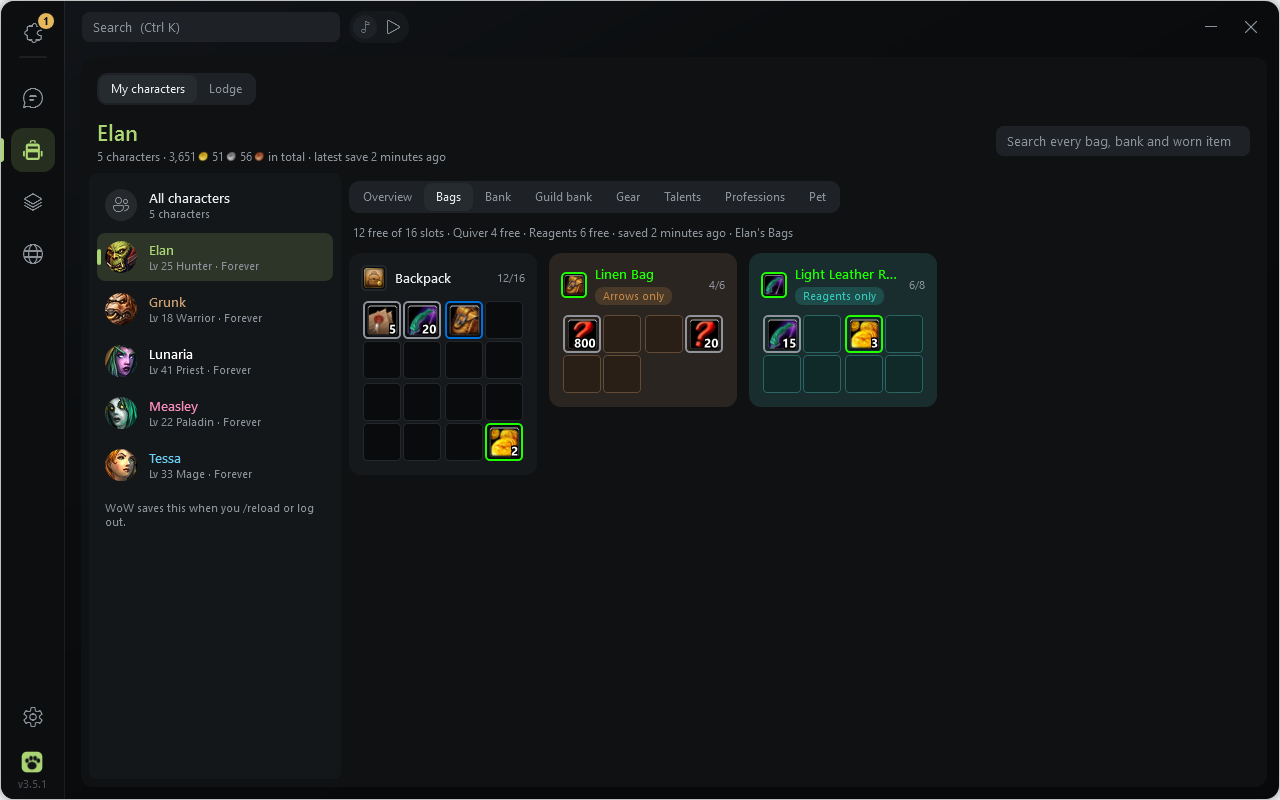
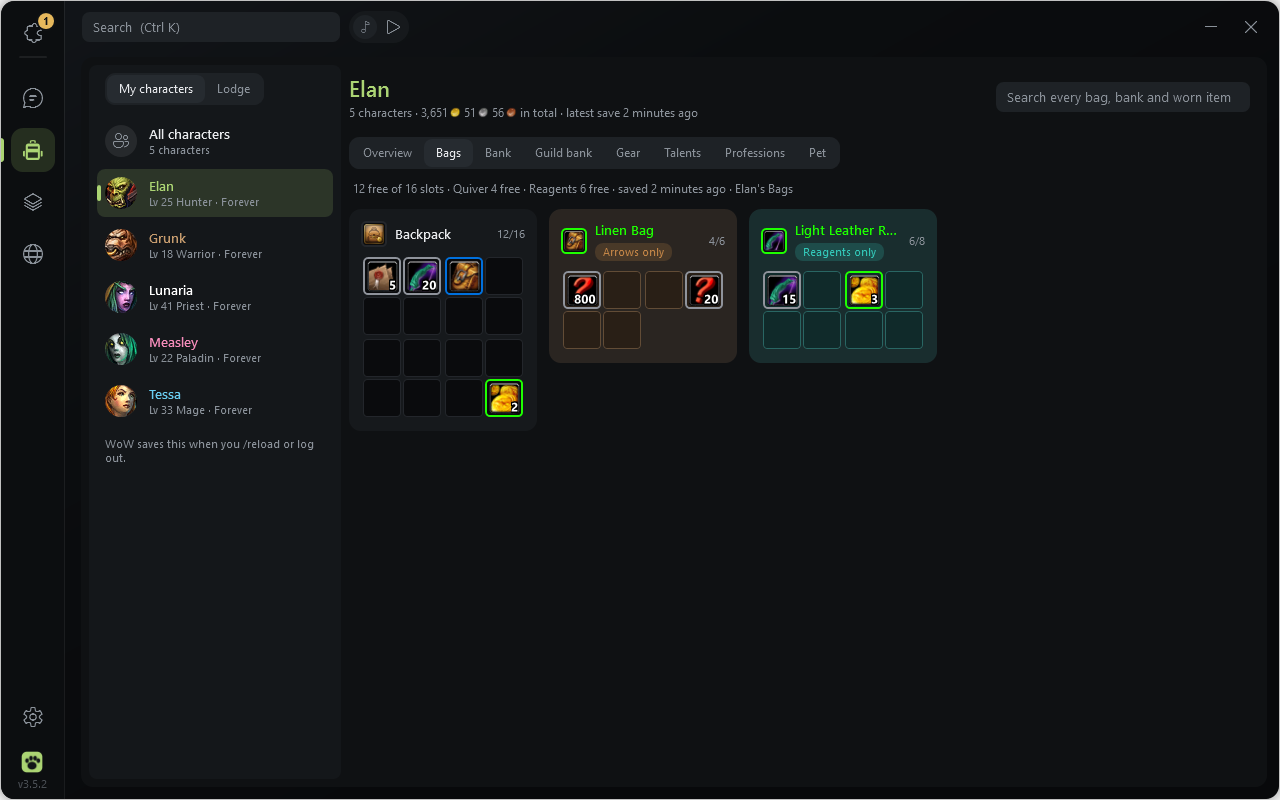
Characters: the same page layout as the Atlas and the Lodge
The side menu (on its menu fill) runs the full height with My characters / Lodge on top; the title, summary and
search head the right column instead of spanning the page. The empty state no longer keeps a character's name
as the title. README Characters picture retaken.

diff --git a/src/InventoryPage.xaml b/src/InventoryPage.xaml
@@ -40,57 +40,29 @@
     </Style>
   </UserControl.Resources>
 
-  <!-- page panel (DESIGN 4): the page sits on a scrim, not on the hero art -->
+  <!-- page panel (DESIGN 4): the page sits on a scrim, not on the hero art. Like the Atlas and the Lodge: the side menu runs the full height on its
+       menu fill (the two views on top, then the characters), the page is beside it (title + search, then the character's tabs) -->
   <Border Background="{StaticResource Brush.Panel}" CornerRadius="{StaticResource Radius.Card}" Margin="16,4,12,12" Padding="16">
   <Grid>
-    <Grid.RowDefinitions>
-      <RowDefinition Height="Auto" />
-      <RowDefinition Height="Auto" />
-      <RowDefinition Height="*" />
-    </Grid.RowDefinitions>
-
-    <!-- the two views of this page: my own characters, or the characters the Lodge shares (the Armory) -->
-    <Border x:Name="ModeStrip" Grid.Row="0" Style="{StaticResource SegmentHost}" HorizontalAlignment="Left" Margin="0,0,0,12">
-      <StackPanel Orientation="Horizontal">
-        <RadioButton x:Name="ModeMine" Style="{StaticResource Segment}" Content="My characters" GroupName="inv-mode" IsChecked="True" Tag="mine" Checked="Mode_Checked" AutomationProperties.Name="My characters" />
-        <RadioButton x:Name="ModeLodge" Style="{StaticResource Segment}" Content="Lodge" GroupName="inv-mode" Tag="lodge" Checked="Mode_Checked" AutomationProperties.Name="Lodge armory" />
-      </StackPanel>
-    </Border>
-
-    <!-- title + search -->
-    <Grid Grid.Row="1" Margin="0,0,0,16">
-      <Grid.ColumnDefinitions>
-        <ColumnDefinition Width="*" />
-        <ColumnDefinition Width="Auto" />
-      </Grid.ColumnDefinitions>
-      <StackPanel VerticalAlignment="Center">
-        <TextBlock x:Name="TitleText" Text="Characters" Style="{StaticResource Text.Title}" />
-        <TextBlock x:Name="Summary" Style="{StaticResource Text.Secondary}" Margin="0,2,0,0" TextTrimming="CharacterEllipsis" />
-      </StackPanel>
-      <TextBox x:Name="SearchBox" Grid.Column="1" Style="{StaticResource Input}" Width="256" Tag="Search every bag, bank and worn item" TextChanged="Search_Changed"
-               VerticalAlignment="Center" AutomationProperties.Name="Search all characters" />
-    </Grid>
-
-    <!-- empty state -->
-    <Border x:Name="EmptyBox" Grid.Row="2" Visibility="Collapsed" Background="{StaticResource Brush.Surface1}" CornerRadius="{StaticResource Radius.Card}"
-            Padding="32" VerticalAlignment="Top" Margin="0,4,4,0">
-      <StackPanel HorizontalAlignment="Center" MaxWidth="460">
-        <Image x:Name="EmptyIcon" Width="80" Height="80" RenderOptions.BitmapScalingMode="HighQuality" Margin="0,0,0,12" />
-        <TextBlock x:Name="EmptyTitle" Style="{StaticResource Text.Section}" HorizontalAlignment="Center" TextAlignment="Center" TextWrapping="Wrap" />
-        <TextBlock x:Name="EmptyText" Style="{StaticResource Text.Secondary}" HorizontalAlignment="Center" TextAlignment="Center" TextWrapping="Wrap" Margin="0,8,0,0" />
-        <Button x:Name="EmptyButton" Style="{StaticResource Button.Primary.M}" Content="Go to Addons" HorizontalAlignment="Center" Margin="0,16,0,0" Click="GoAddons_Click" />
-      </StackPanel>
-    </Border>
-
-    <!-- characters on the left, items on the right -->
-    <Grid x:Name="Body" Grid.Row="2">
-      <Grid.ColumnDefinitions>
-        <ColumnDefinition Width="{local:SideMenuColumn Bleed=8}" />
-        <ColumnDefinition Width="*" />
-      </Grid.ColumnDefinitions>
-      <!-- the faint menu fill behind the character list (Brush.Section.Panel): the list reads apart from the page -->
-      <Border x:Name="ListBackdrop" Grid.Column="0" Margin="-8,-8,0,-8" Background="{StaticResource Brush.Section.Panel}" CornerRadius="{StaticResource Radius.Control}" IsHitTestVisible="False" />
-      <ScrollViewer Grid.Column="0" VerticalScrollBarVisibility="Auto" Padding="0,0,8,0">
+    <Grid.ColumnDefinitions>
+      <ColumnDefinition Width="{local:SideMenuColumn Bleed=8}" />
+      <ColumnDefinition Width="*" />
+    </Grid.ColumnDefinitions>
+    <!-- the faint menu fill behind the menu (Brush.Section.Panel): the list reads apart from the page -->
+    <Border x:Name="ListBackdrop" Grid.Column="0" Margin="-8,-8,0,-8" Background="{StaticResource Brush.Section.Panel}" CornerRadius="{StaticResource Radius.Control}" IsHitTestVisible="False" />
+    <Grid Grid.Column="0">
+      <Grid.RowDefinitions>
+        <RowDefinition Height="Auto" />
+        <RowDefinition Height="*" />
+      </Grid.RowDefinitions>
+      <!-- the two views of this page: my own characters, or the characters the Lodge shares (the Armory) -->
+      <Border x:Name="ModeStrip" Grid.Row="0" Style="{StaticResource SegmentHost}" HorizontalAlignment="Left" Margin="8,0,12,12">
+        <StackPanel Orientation="Horizontal">
+          <RadioButton x:Name="ModeMine" Style="{StaticResource Segment}" Content="My characters" GroupName="inv-mode" IsChecked="True" Tag="mine" Checked="Mode_Checked" AutomationProperties.Name="My characters" />
+          <RadioButton x:Name="ModeLodge" Style="{StaticResource Segment}" Content="Lodge" GroupName="inv-mode" Tag="lodge" Checked="Mode_Checked" AutomationProperties.Name="Lodge armory" />
+        </StackPanel>
+      </Border>
+      <ScrollViewer Grid.Row="1" VerticalScrollBarVisibility="Auto" Padding="0,0,8,0" Visibility="{Binding Visibility, ElementName=Body}">
         <StackPanel>
           <!-- the Lodge view: filters, then the characters the Lodge shares (same rows as my own) -->
           <StackPanel x:Name="ArmoryLeft" Visibility="Collapsed">
@@ -193,8 +165,40 @@
           <TextBlock x:Name="SaveHint" Text="WoW saves this when you /reload or log out." Style="{StaticResource Text.Caption}" TextWrapping="Wrap" Margin="8,8,0,0" />
         </StackPanel>
       </ScrollViewer>
+    </Grid>
 
-      <Grid Grid.Column="1" Margin="8,0,0,0">
+    <Grid Grid.Column="1" Margin="8,0,0,0">
+      <Grid.RowDefinitions>
+        <RowDefinition Height="Auto" />
+        <RowDefinition Height="*" />
+      </Grid.RowDefinitions>
+      <!-- title + search -->
+      <Grid Grid.Row="0" Margin="0,0,0,16">
+        <Grid.ColumnDefinitions>
+          <ColumnDefinition Width="*" />
+          <ColumnDefinition Width="Auto" />
+        </Grid.ColumnDefinitions>
+        <StackPanel VerticalAlignment="Center">
+          <TextBlock x:Name="TitleText" Text="Characters" Style="{StaticResource Text.Title}" TextTrimming="CharacterEllipsis" />
+          <TextBlock x:Name="Summary" Style="{StaticResource Text.Secondary}" Margin="0,2,0,0" TextTrimming="CharacterEllipsis" />
+        </StackPanel>
+        <TextBox x:Name="SearchBox" Grid.Column="1" Style="{StaticResource Input}" Width="256" Margin="12,0,0,0" Tag="Search every bag, bank and worn item" TextChanged="Search_Changed"
+                 VerticalAlignment="Center" AutomationProperties.Name="Search all characters" />
+      </Grid>
+
+      <!-- empty state -->
+      <Border x:Name="EmptyBox" Grid.Row="1" Visibility="Collapsed" Background="{StaticResource Brush.Surface1}" CornerRadius="{StaticResource Radius.Card}"
+              Padding="32" VerticalAlignment="Top" Margin="0,4,4,0">
+        <StackPanel HorizontalAlignment="Center" MaxWidth="460">
+          <Image x:Name="EmptyIcon" Width="80" Height="80" RenderOptions.BitmapScalingMode="HighQuality" Margin="0,0,0,12" />
+          <TextBlock x:Name="EmptyTitle" Style="{StaticResource Text.Section}" HorizontalAlignment="Center" TextAlignment="Center" TextWrapping="Wrap" />
+          <TextBlock x:Name="EmptyText" Style="{StaticResource Text.Secondary}" HorizontalAlignment="Center" TextAlignment="Center" TextWrapping="Wrap" Margin="0,8,0,0" />
+          <Button x:Name="EmptyButton" Style="{StaticResource Button.Primary.M}" Content="Go to Addons" HorizontalAlignment="Center" Margin="0,16,0,0" Click="GoAddons_Click" />
+        </StackPanel>
+      </Border>
+
+      <!-- the chosen character (or all of them, or the search results) -->
+      <Grid x:Name="Body" Grid.Row="1">
         <Grid.RowDefinitions>
           <RowDefinition Height="Auto" />
           <RowDefinition Height="Auto" />

diff --git a/src/InventoryPage.xaml.cs b/src/InventoryPage.xaml.cs
@@ -362,6 +362,7 @@ namespace ElansAddonHub
             Body.Visibility = Visibility.Collapsed;
             CharList.ItemsSource = null;            // no stale rows behind the empty state (the folder may have changed)
             EmptyBox.Visibility = Visibility.Visible;
+            TitleText.Text = "Characters"; TitleText.Foreground = Res("Brush.Text.Primary"); Summary.Text = "";   // no character's name over the empty state
             EmptyTitle.Text = title;
             EmptyText.Text = text;
             EmptyButton.Visibility = addonsButton ? Visibility.Visible : Visibility.Collapsed;

diff --git a/src/CHANGELOG.md b/src/CHANGELOG.md
@@ -3,6 +3,9 @@
 Newest first. `Tools/release.py` (addon repo) reads the sections newer than the previous release for the GitHub release notes.
 Keep one `## x.y.z` section per hub version. This file is also shown in the Outpost (Settings > About > What's new): public text only - no paths, names, addresses or keys.
 
+## 3.5.3
+- **Characters looks like the other pages.** The character list runs the full height on the left, like the Atlas and the Lodge menus, with My characters / Lodge on top of it; the character's name, summary and the search sit beside it.
+
 ## 3.5.2
 - **Files like a file manager.** Lodge > Files opens as a Details list, like Explorer: kind, version, size, updated, shared by and what you have in WoW in columns - click a column to sort, double-click a file for its details, the buttons show on the row under the mouse. The small icons next to the search switch to Tiles (the cards) and back; the Outpost remembers your choice. In a narrow window the least needed columns step aside.
 - **Sharing a .rar or .7z addon** now says what to do: only a .zip can be an addon (the one kind of archive members' PCs unpack), so zip the addon's folder instead - Explorer's right-click > Compress to ZIP file.
